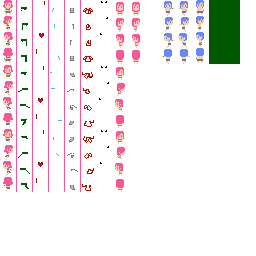
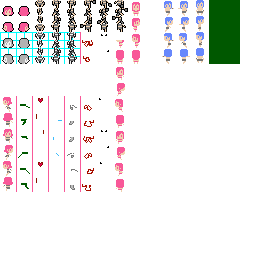
Updated animations [Augment Anims off for now]

Changed region(s): [[0.0, 0.0, 0.5, 0.375]]

diff --git a/index.html b/index.html
@@ -149,10 +149,16 @@
                 newLvl:10,
                 augments:[],
 				maxAugs: 5,
-                animations:{wU_anim:[{x:0,y:112},{x:0,y:176}],
-                            wD_anim:[{x:0,y:64},{x:0,y:128}],
-                            wL_anim:[{x:0,y:96},{x:0,y:160}],
-                            wR_anim:[{x:0,y:80},{x:0,y:144}]
+                headSet: 0,
+                bodySet: 0,
+                animations:{wU_anim:[{x:48,y:24},{x:32,y:24},{x:64,y:24},{x:32,y:24}],
+                            wD_anim:[{x:48,y:0},{x:32,y:0},{x:64,y:0},{x:32,y:0}],
+                            wL_anim:[{x:48,y:16},{x:32,y:16},{x:64,y:16},{x:32,y:16}],
+                            wR_anim:[{x:48,y:8},{x:32,y:8},{x:64,y:8},{x:32,y:8}],
+                            aU_anim:[{x:80,y:24},{x:96,y:24},{x:112,y:24}],
+                            aD_anim:[{x:80,y:0},{x:96,y:0},{x:112,y:0}],
+                            aL_anim:[{x:80,y:16},{x:96,y:16},{x:112,y:16}],
+                            aR_anim:[{x:80,y:8},{x:96,y:8},{x:112,y:8}]
                             },
                 anim_index:0,
                 animCounter:-1,
@@ -200,7 +206,6 @@
                                 }
                             } else {
                                 this.moving = false;
-                                this.animCounter = -1;
                             }
                             
                             //check if/where the player should be facing
@@ -216,6 +221,10 @@
                                     this.moving  = false;
                                 }
                                 this.weapons[this.wepIndex].action();
+                                if (this.animCounter == -1) {
+                                    this.animCounter = 0;
+                                    this.anim_index = 0;
+                                }
                             } else {
                                 this.spirit = this.spirit+this.spiritGen;
                             }
@@ -225,6 +234,10 @@
                             
                             if (this.spirit > this.maxSpirit) {
                                 this.spirit = this.maxSpirit;
+                            }
+                            
+                            if (this.moving == false && this.attacking == false) {
+                                this.animCounter = -1;
                             }
                             
                             for (var i=0; i<pressedKeys.length; i++) {
@@ -378,15 +391,24 @@
                                     if (player.anim_index >= player.animations.wU_anim.length) {
 										player.anim_index = 0;
 									}
-                                    ctx.drawImage(playerSheet, player.animations.wU_anim[player.anim_index].x,player.animations.wU_anim[player.anim_index].y,16,16,player.x-4, player.y-8,16,16);
-                                    for (var i=0; i<this.augments.length; i++) {
+                                    ctx.drawImage(playerSheet, 16,0+this.bodySet,16,16,player.x-4, player.y-15,16,16);
+                                    ctx.drawImage(playerSheet, player.animations.wU_anim[player.anim_index].x,player.animations.wU_anim[player.anim_index].y+this.bodySet,16,8,player.x-4, player.y,16,8);
+                                    /*for (var i=0; i<this.augments.length; i++) {
                                         ctx.drawImage(playerSheet, this.augments[i].drawCol,this.animations.wU_anim[this.anim_index].y,16,16,this.x-4, this.y-8,16,16);
+                                    }*/
+                                } else if (this.attacking == true && paused == false){
+                                    if (player.anim_index >= player.animations.aU_anim.length) {
+                                        player.anim_index = 0;
                                     }
+                                    ctx.drawImage(playerSheet, 16,0+this.bodySet,16,16,player.x-4, player.y-15,16,16);
+                                    ctx.drawImage(playerSheet, player.animations.aU_anim[player.anim_index].x,player.animations.aU_anim[player.anim_index].y+this.bodySet,16,8,player.x-4, player.y,16,8);
+                                    
                                 } else {
-                                    ctx.drawImage(playerSheet, 0,48,16,16,player.x-4, player.y-8,16,16);
-                                    for (var i=0; i<player.augments.length; i++) {
+                                    ctx.drawImage(playerSheet, 16,0+this.bodySet,16,16,player.x-4, player.y-16,16,16);
+                                    ctx.drawImage(playerSheet, 32,24+this.bodySet,16,8,player.x-4, player.y,16,8);
+                                    /*for (var i=0; i<player.augments.length; i++) {
                                         ctx.drawImage(playerSheet, player.augments[i].drawCol,48,16,16,player.x-4, player.y-8,16,16);
-                                    }
+                                    }*/
                                 }
                                 
                             }
@@ -395,15 +417,24 @@
 									if (player.anim_index >= player.animations.wL_anim.length) {
 										player.anim_index = 0;
 									}
-                                    ctx.drawImage(playerSheet, player.animations.wL_anim[player.anim_index].x,player.animations.wL_anim[player.anim_index].y,16,16,player.x-4, player.y-8,16,16);
-                                    for (var i=0; i<player.augments.length; i++) {
+                                    
+                                    ctx.drawImage(playerSheet, player.animations.wL_anim[player.anim_index].x,player.animations.wL_anim[player.anim_index].y+this.bodySet,16,8,player.x-4, player.y,16,8);
+                                    ctx.drawImage(playerSheet, 0,16+this.bodySet,16,16,player.x-4, player.y-15,16,16);
+                                    /*for (var i=0; i<player.augments.length; i++) {
                                         ctx.drawImage(playerSheet, player.augments[i].drawCol,player.animations.wL_anim[player.anim_index].y,16,16,player.x-4, player.y-8,16,16);
+                                    }*/
+                                } else if (this.attacking == true && paused == false){
+                                    if (player.anim_index >= player.animations.aD_anim.length) {
+                                        player.anim_index = 0;
                                     }
+                                    ctx.drawImage(playerSheet, player.animations.aL_anim[player.anim_index].x,player.animations.aL_anim[player.anim_index].y+this.bodySet,16,8,player.x-4, player.y,16,8);
+                                    ctx.drawImage(playerSheet, 0,16+this.bodySet,16,16,player.x-4, player.y-15,16,16);
                                 } else {
-                                    ctx.drawImage(playerSheet, 0,32,16,16,player.x-4, player.y-8,16,16);
-                                    for (var i=0; i<player.augments.length; i++) {
+                                    ctx.drawImage(playerSheet, 0,16+this.bodySet,16,16,player.x-4, player.y-16,16,16);
+                                    ctx.drawImage(playerSheet, 32,16+this.bodySet,16,8,player.x-4, player.y,16,8);
+                                    /*for (var i=0; i<player.augments.length; i++) {
                                         ctx.drawImage(playerSheet, player.augments[i].drawCol,32,16,16,player.x-4, player.y-8,16,16);
-                                    }
+                                    }*/
                                 }
                                 
                             }
@@ -412,15 +443,23 @@
                                     if (player.anim_index >= player.animations.wD_anim.length) {
                                         player.anim_index = 0;
                                     }
-                                    ctx.drawImage(playerSheet, player.animations.wD_anim[player.anim_index].x,player.animations.wD_anim[player.anim_index].y,16,16,player.x-4, player.y-8,16,16);
-                                    for (var i=0; i<player.augments.length; i++) {
+                                    ctx.drawImage(playerSheet, player.animations.wD_anim[player.anim_index].x,player.animations.wD_anim[player.anim_index].y+this.bodySet,16,8,player.x-4, player.y,16,8);
+                                    ctx.drawImage(playerSheet, 0,0+this.bodySet,16,16,player.x-4, player.y-15,16,16);
+                                    /*for (var i=0; i<player.augments.length; i++) {
                                         ctx.drawImage(playerSheet, player.augments[i].drawCol,player.animations.wD_anim[player.anim_index].y,16,16,player.x-4, player.y-8,16,16);
+                                    }*/
+                                } else if (this.attacking == true && paused == false){
+                                    if (player.anim_index >= player.animations.aD_anim.length) {
+                                        player.anim_index = 0;
                                     }
+                                    ctx.drawImage(playerSheet, player.animations.aD_anim[player.anim_index].x,player.animations.aD_anim[player.anim_index].y+this.bodySet,16,8,player.x-4, player.y,16,8);
+                                    ctx.drawImage(playerSheet, 0,0+this.bodySet,16,16,player.x-4, player.y-15,16,16);
                                 } else {
-                                    ctx.drawImage(playerSheet, 0,0,16,16,player.x-4, player.y-8,16,16);
-                                    for (var i=0; i<player.augments.length; i++) {
+                                    ctx.drawImage(playerSheet, 0,0+this.bodySet,16,16,player.x-4, player.y-16,16,16);
+                                    ctx.drawImage(playerSheet,32,0+this.bodySet,16,8,player.x-4, player.y,16,8);
+                                    /*for (var i=0; i<player.augments.length; i++) {
                                         ctx.drawImage(playerSheet, player.augments[i].drawCol,0,16,16,player.x-4, player.y-8,16,16);
-                                    }
+                                    }*/
                                 }
                             }
                             if (player.dir == 3) {
@@ -428,15 +467,24 @@
                                     if (player.anim_index >= player.animations.wR_anim.length) {
                                         player.anim_index = 0;
                                     }
-                                    ctx.drawImage(playerSheet, player.animations.wR_anim[player.anim_index].x,player.animations.wR_anim[player.anim_index].y,16,16,player.x-4, player.y-8,16,16);
-                                    for (var i=0; i<player.augments.length; i++) {
+                                    
+                                    ctx.drawImage(playerSheet, player.animations.wR_anim[player.anim_index].x,player.animations.wR_anim[player.anim_index].y+this.bodySet,16,8,player.x-4, player.y,16,8);
+                                    ctx.drawImage(playerSheet, 16,16+this.bodySet,16,16,player.x-4, player.y-15,16,16);
+                                    /*for (var i=0; i<player.augments.length; i++) {
                                         ctx.drawImage(playerSheet, player.augments[i].drawCol,player.animations.wR_anim[player.anim_index].y,16,16,player.x-4, player.y-8,16,16);
+                                    }*/
+                                } else if (this.attacking == true && paused == false){
+                                    if (player.anim_index >= player.animations.aR_anim.length) {
+                                        player.anim_index = 0;
                                     }
+                                    ctx.drawImage(playerSheet, player.animations.aR_anim[player.anim_index].x,player.animations.aR_anim[player.anim_index].y+this.bodySet,16,8,player.x-4, player.y,16,8);
+                                    ctx.drawImage(playerSheet, 16,16+this.bodySet,16,16,player.x-4, player.y-15,16,16);
                                 } else {
-                                    ctx.drawImage(playerSheet, 0,16,16,16,player.x-4, player.y-8,16,16);
-                                    for (var i=0; i<player.augments.length; i++) {
+                                    ctx.drawImage(playerSheet, 16,16+this.bodySet,16,16,player.x-4, player.y-16,16,16);
+                                    ctx.drawImage(playerSheet, 32,8+this.bodySet,16,8,player.x-4, player.y,16,8);
+                                    /*for (var i=0; i<player.augments.length; i++) {
                                         ctx.drawImage(playerSheet, player.augments[i].drawCol,16,16,16,player.x-4, player.y-8,16,16);
-                                    }
+                                    }*/
                                 }
                             }
                         },
@@ -481,10 +529,10 @@
                         cont: true,
                         use_cost: .1,
                         knockback: 8,
-                        aoe: [[{x: -8, y: 0, sprite: 33, dur:4, dirXadj: 8, dirYadj: 0},{x: -8, y: -8, sprite: 1, dur:4, dirXadj: 8, dirYadj: 8},{x: 0, y: -8, sprite: 2, dur:4, dirXadj: 0, dirYadj: 8}],
-                              [{x: 0, y: +8, sprite: 66, dur:4, dirXadj: 0, dirYadj: 0},{x: -8, y: +8, sprite: 65, dur:4, dirXadj: 8, dirYadj: 0},{x: -8, y: 0, sprite: 33, dur:4, dirXadj: 8, dirYadj: 8}],
-                              [{x: +8, y: 0, sprite: 35, dur:4, dirXadj: 0, dirYadj: 8},{x: +8, y: +8, sprite: 67, dur:4, dirXadj: 0, dirYadj: 0},{x: 0, y: +8, sprite: 66, dur:4, dirXadj: 8, dirYadj: 0}],
-                              [{x: 0, y: -8, sprite: 2, dur:4, dirXadj: 8, dirYadj: 8},{x: +8, y: -8, sprite: 3, dur:4, dirXadj: 0, dirYadj: 8},{x: +8, y: 0, sprite: 35, dur:4, dirXadj: 0, dirYadj: 0}]
+                        aoe: [[{x: -12, y: -2, sprite: 33, dur:4, dirXadj: 8, dirYadj: 0},{x: -12, y: -10, sprite: 1, dur:4, dirXadj: 8, dirYadj: 8},{x: 0, y: -10, sprite: 2, dur:4, dirXadj: 0, dirYadj: 8}],
+                              [{x: +2, y: +8, sprite: 66, dur:4, dirXadj: 0, dirYadj: 0},{x: -10, y: +8, sprite: 65, dur:4, dirXadj: 8, dirYadj: 0},{x: -12, y: -2, sprite: 33, dur:4, dirXadj: 8, dirYadj: 8}],
+                              [{x: +12, y: -2, sprite: 35, dur:4, dirXadj: 0, dirYadj: 8},{x: +12, y: +8, sprite: 67, dur:4, dirXadj: 0, dirYadj: 0},{x: +2, y: +8, sprite: 66, dur:4, dirXadj: 8, dirYadj: 0}],
+                              [{x: +2, y: -8, sprite: 2, dur:4, dirXadj: 8, dirYadj: 8},{x: +8, y: -8, sprite: 3, dur:4, dirXadj: 0, dirYadj: 8},{x: +12, y: -2, sprite: 35, dur:4, dirXadj: 0, dirYadj: 8}]
                              ],
                         damage: 1,
                         durCount:0,
@@ -1216,6 +1264,8 @@
     //generate a level
 	function buildLevel(size, gen) {
         depth++;
+        remKeys = 0;
+        remMobs = 0;
 		map = [ [0,0,0],
                 [0,empty,0],
                 [0,0,0]];
@@ -1235,7 +1285,7 @@
             size = parseInt(gen.substring(0,gen.indexOf('e')));
             genIndex = gen.indexOf('e')+1;
         }
-        seed+=size+'e';
+        seed+=size+'_';
         
         //190,191,192,222,223,224,254,255,256
         //make a floor palette
@@ -1246,7 +1296,7 @@
             } else {
                 rand = Math.floor(Math.random()*posFloors.length);
             }
-            seed+=rand+'f';
+            seed+=rand+'_';
             floorPal.push(posFloors[rand]);
             posFloors.splice(rand, 1);
         }
@@ -1256,7 +1306,7 @@
         } else {
             rand = Math.floor(Math.random()*3);
         }
-        seed+=rand+'f';
+        seed+=rand+'_';
         if (rand == 0) {
             floorPal.push(286);
         }
@@ -1366,7 +1416,7 @@
                 } else {
                     rand = Math.floor(Math.random()*appList.length);
                 }
-                seed+=rand+'d';
+                seed+=rand+'_';
                 map[emptList[j].y][emptList[j].x] = JSON.parse(JSON.stringify(appList[rand]));
                 numRooms++;
                 
@@ -1383,7 +1433,7 @@
                         } else {
                             floorRand = Math.floor(Math.random()*8);
                         }
-                        seed+=floorRand+'f'; 
+                        seed+=floorRand+'_'; 
                         
                         if (floorRand == 0) {
                             floorRow.push(floorPal[3]);
@@ -1477,7 +1527,7 @@
                 } else {
                     rand = Math.floor(Math.random()*capList.length);
                 }
-                seed+=rand+'d';
+                seed+=rand+'_';
                 map[emptList[j].y][emptList[j].x] = JSON.parse(JSON.stringify(capList[rand]));
                 numRooms++;
                 
@@ -1492,7 +1542,7 @@
                         } else {
                             floorRand = Math.floor(Math.random()*8);
                         }
-                        seed+=floorRand+'f'; 
+                        seed+=floorRand+'_'; 
                         
                         if (floorRand == 0) {
                             floorRow.push(floorPal[3]);
@@ -1528,7 +1578,7 @@
         } else {
             rand = Math.floor(Math.random()*rList.length);
         }
-        seed+=rand+'g';
+        seed+=rand+'_';
 
         map[rList[rand].y][rList[rand].x].contents.push($.extend({}, con_goal));
         map[rList[rand].y][rList[rand].x].obs = buildConfig('config_goal');
@@ -1547,7 +1597,7 @@
 			} else {
 				rand = Math.floor(Math.random()*rList.length);
 			}
-			seed+=rand+'k';
+			seed+=rand+'_';
 			map[rList[rand].y][rList[rand].x].contents.push($.extend(true, {}, con_key));
 			rList.splice(rand,1);
 			
@@ -1562,7 +1612,7 @@
 					} else {
 						rand = Math.floor(Math.random()*2);
 					}
-					seed+=rand+'m';
+					seed+=rand+'_';
 					if (rand == 0) {
 						if (gen) {
 							rand = gen.charAt(genIndex);
@@ -1570,7 +1620,7 @@
 						} else {
 							rand = Math.floor(Math.random()*mobs.length);
 						}
-						seed+=rand+'m';
+						seed+=rand+'_';
 						map[i][j].contents.push($.extend(true, {}, mobs[rand]));
                         remMobs++;
 					}
@@ -1588,7 +1638,7 @@
                         } else {
                             rand = Math.floor(Math.random()*2);
                         }
-                        seed+=rand+'p';
+                        seed+=rand+'_';
                         if (rand == 0) {
                             if (gen) {
                                 rand = gen.charAt(genIndex);
@@ -1596,7 +1646,7 @@
                             } else {
                                 rand = Math.floor(Math.random()*augments.length);
                             }
-                            seed+=rand+'p';
+                            seed+=rand+'_';
                             map[i][j].contents.push($.extend(true, {}, con_aug));
                             map[i][j].obs = buildConfig('config_item');
                             map[i][j].contents[map[i][j].contents.length-1].aug = rand;
@@ -1624,7 +1674,7 @@
                     } else {
                         rand = Math.floor(Math.random()*17);
                     }
-                    seed+=rand+'c';
+                    seed+=rand+'_';
                     
                     map[i][j].obs = buildConfig('config_'+rand);
                 }
